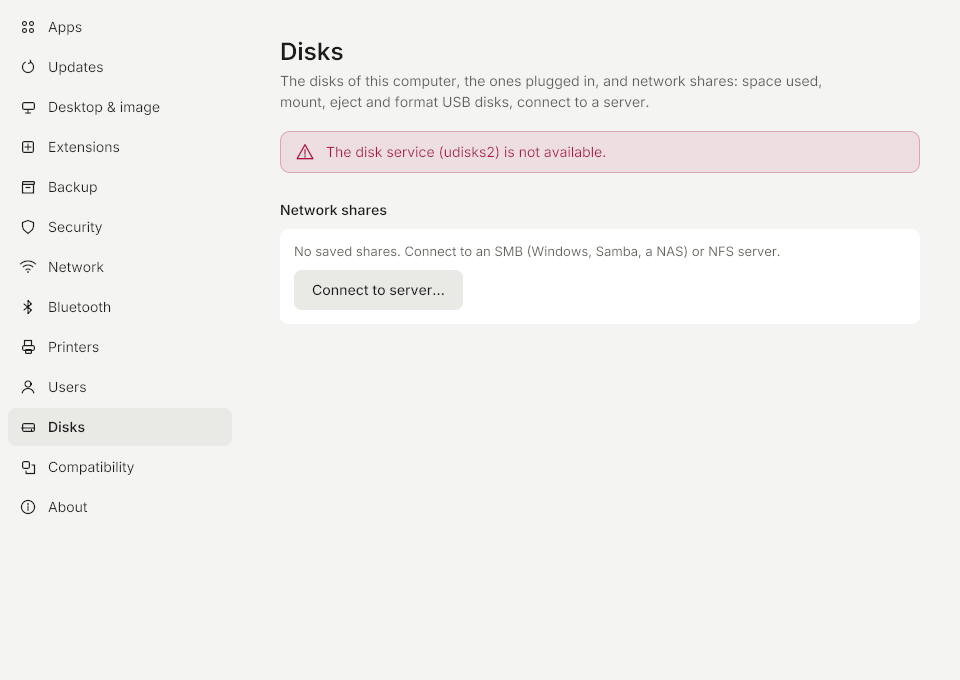
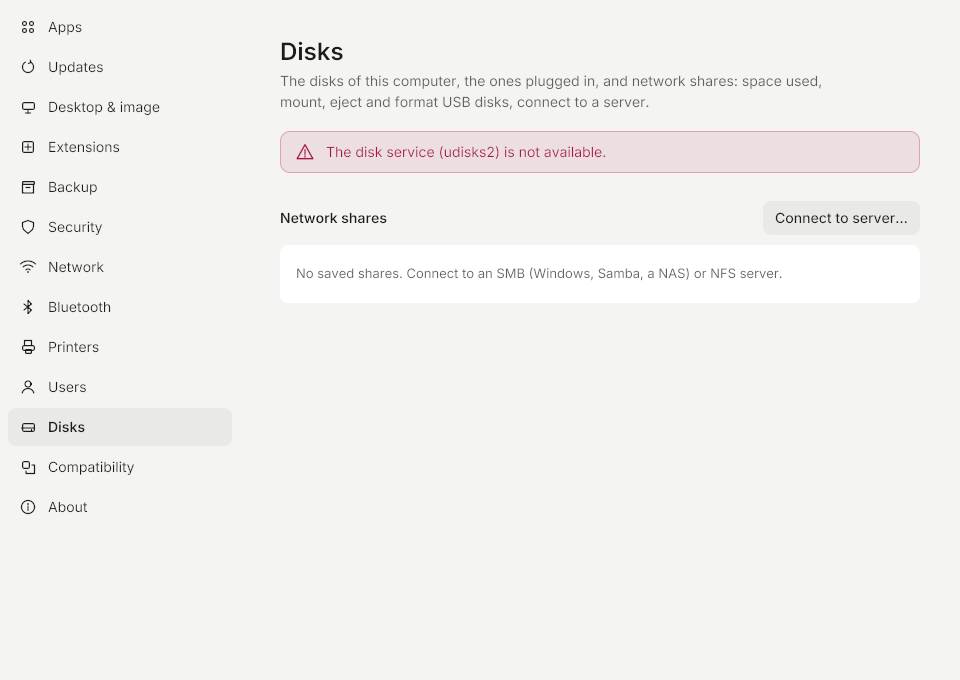
feat(system): settings rows on the Bluetooth and Disks pages
The adapter, the devices, each disk with its partitions and the network
shares are grouped rows with their buttons at the right; Forget and
Format are in the row's "⋯" menu, and "Connect to server…" moves
beside its heading.

Changed region(s): [[0.2812, 0.3088, 0.9375, 0.4632], [0.2812, 0.2779, 0.4062, 0.3397]]

diff --git a/cmd/isotope-system/page_bluetooth.go b/cmd/isotope-system/page_bluetooth.go
@@ -498,9 +498,7 @@ func (p *btPage) Body(gtx layout.Context) layout.Dimensions {
 			c.add(u.dim(i18n.T("This computer has no Bluetooth adapter, or it is switched off by a key or by rfkill.")))
 			return c.layout(gtx)
 		}
-		c.add(u.row(view.Headline, "", u.buttons(acts...)))
-		c.gap(6)
-		c.add(u.dim(i18n.T("Files sent to this computer are saved in Downloads.")))
+		c.add(u.group(u.actionRow("bt:adapter", view.Headline, i18n.T("Files sent to this computer are saved in Downloads."), nil, acts...)))
 		if busy {
 			c.gap(12)
 			c.add(u.spinnerLine(working))
@@ -512,44 +510,38 @@ func (p *btPage) Body(gtx layout.Context) layout.Dimensions {
 			}
 			return c.layout(gtx)
 		}
-		c.gap(24)
+		c.gap(28)
 		c.add(u.caps(i18n.T("Devices")))
 		c.gap(10)
-		c.add(u.panel(func(gtx layout.Context) layout.Dimensions {
-			var rows col
-			for i, r := range view.Rows {
-				if i > 0 {
-					rows.gap(14)
+		var rows []layout.Widget
+		for _, r := range view.Rows {
+			var as []guikit.Action
+			for _, a := range r.Actions {
+				k := guikit.ButtonSecondary
+				if a == "Forget" {
+					k = guikit.ButtonDanger
 				}
-				var as []guikit.Action
-				for _, a := range r.Actions {
-					k := guikit.ButtonSecondary
-					if a == "Forget" {
-						k = guikit.ButtonGhost
-					}
-					as = append(as, guikit.Action{Click: p.click(r.Dev.Path + "|" + a), Kind: k, Label: i18n.T(a), Disabled: busy})
-				}
-				sub := r.Sub
-				if sending.Dev == r.Dev.Path {
-					sub = btSendText(sending.Sent, sending.Total)
-					as = []guikit.Action{{Click: p.click("send|cancel"), Kind: guikit.ButtonSecondary, Label: i18n.T("Cancel")}}
-				}
-				rows.add(u.row(r.Dev.Name, sub, u.buttons(as...)))
-				if len(r.Codecs) > 0 {
-					rows.gap(8)
-					var cs []guikit.Action
-					for _, cd := range r.Codecs {
-						k := guikit.ButtonSecondary
-						if cd.Active {
-							k = guikit.ButtonPrimary
-						}
-						cs = append(cs, guikit.Action{Click: p.click(r.Dev.Path + "|codec|" + cd.Name), Kind: k, Label: cd.Label, Disabled: busy})
-					}
-					rows.add(u.row(i18n.T("Sound quality"), i18n.T("A higher quality uses more battery and needs a good signal."), u.buttons(cs...)))
-				}
+				as = append(as, guikit.Action{Click: p.click(r.Dev.Path + "|" + a), Kind: k, Label: i18n.T(a), Disabled: busy})
 			}
-			return rows.layout(gtx)
-		}))
+			sub := r.Sub
+			if sending.Dev == r.Dev.Path {
+				sub = btSendText(sending.Sent, sending.Total)
+				as = []guikit.Action{{Click: p.click("send|cancel"), Kind: guikit.ButtonSecondary, Label: i18n.T("Cancel")}}
+			}
+			rows = append(rows, u.actionRow("bt:"+r.Dev.Path, r.Dev.Name, sub, nil, as...))
+			if len(r.Codecs) > 0 {
+				var cs []guikit.Action
+				for _, cd := range r.Codecs {
+					k := guikit.ButtonSecondary
+					if cd.Active {
+						k = guikit.ButtonPrimary
+					}
+					cs = append(cs, guikit.Action{Click: p.click(r.Dev.Path + "|codec|" + cd.Name), Kind: k, Label: cd.Label, Disabled: busy})
+				}
+				rows = append(rows, u.row(i18n.T("Sound quality"), i18n.T("A higher quality uses more battery and needs a good signal."), u.rowButtons(cs...)))
+			}
+		}
+		c.add(u.group(rows...))
 		return c.layout(gtx)
 	})
 }

diff --git a/cmd/isotope-system/shares.go b/cmd/isotope-system/shares.go
@@ -355,46 +355,43 @@ func (p *disksPage) sharesSection() layout.Widget {
 	off := working != ""
 	return func(gtx layout.Context) layout.Dimensions {
 		var c col
-		c.add(u.caps(i18n.T("Network shares")))
+		var connect []guikit.Action
+		if u.hooks.Daemon != nil {
+			connect = append(connect, guikit.Action{Click: &p.connect, Kind: guikit.ButtonSecondary, Label: i18n.T("Connect to server…"), Disabled: off})
+		}
+		c.add(u.section(i18n.T("Network shares"), connect...))
 		c.gap(10)
 		if u.hooks.Daemon == nil {
 			c.add(u.errorBox(i18n.T("The update service (isotope-updated), which mounts network shares, is not available.")))
 			return c.layout(gtx)
 		}
-		c.add(u.panel(func(gtx layout.Context) layout.Dimensions {
-			var in col
-			switch {
-			case errText != "":
-				in.add(u.dim(errText))
-				in.gap(10)
-			case !loaded:
-				in.add(u.dim(i18n.T("Loading…")))
-				in.gap(10)
-			case len(rows) == 0:
-				in.add(u.dim(i18n.T("No saved shares. Connect to an SMB (Windows, Samba, a NAS) or NFS server.")))
-				in.gap(10)
+		if working != "" {
+			c.add(u.spinnerLine(working))
+			c.gap(10)
+		}
+		var in []layout.Widget
+		switch {
+		case errText != "":
+			in = append(in, u.note(errText))
+		case !loaded:
+			in = append(in, u.note(i18n.T("Loading…")))
+		case len(rows) == 0:
+			in = append(in, u.note(i18n.T("No saved shares. Connect to an SMB (Windows, Samba, a NAS) or NFS server.")))
+		}
+		for _, r := range rows {
+			k := p.shClicks(r.Key)
+			var as []guikit.Action
+			if r.MountPoint != "" {
+				as = append(as, guikit.Action{Click: &k.unmount, Kind: guikit.ButtonSecondary, Label: i18n.T("Unmount"), Disabled: off})
+			} else {
+				as = append(as, guikit.Action{Click: &k.mount, Kind: guikit.ButtonSecondary, Label: i18n.T("Mount"), Disabled: off})
 			}
-			if working != "" {
-				in.add(u.spinnerLine(working))
-				in.gap(10)
+			if r.Saved >= 0 {
+				as = append(as, guikit.Action{Click: &k.forget, Kind: guikit.ButtonDanger, Label: i18n.T("Forget"), Disabled: off})
 			}
-			for _, r := range rows {
-				k := p.shClicks(r.Key)
-				var as []guikit.Action
-				if r.MountPoint != "" {
-					as = append(as, guikit.Action{Click: &k.unmount, Kind: guikit.ButtonSecondary, Label: i18n.T("Unmount"), Disabled: off})
-				} else {
-					as = append(as, guikit.Action{Click: &k.mount, Kind: guikit.ButtonSecondary, Label: i18n.T("Mount"), Disabled: off})
-				}
-				if r.Saved >= 0 {
-					as = append(as, guikit.Action{Click: &k.forget, Kind: guikit.ButtonGhost, Label: i18n.T("Forget"), Disabled: off})
-				}
-				in.add(u.row(r.Title, r.Sub, u.buttons(as...)))
-				in.gap(10)
-			}
-			in.add(u.buttons(guikit.Action{Click: &p.connect, Kind: guikit.ButtonSecondary, Label: i18n.T("Connect to server…"), Disabled: off}))
-			return in.layout(gtx)
-		}))
+			in = append(in, u.actionRow("share:"+r.Key, r.Title, r.Sub, nil, as...))
+		}
+		c.add(u.group(in...))
 		return c.layout(gtx)
 	}
 }

diff --git a/cmd/isotope-system/page_disks.go b/cmd/isotope-system/page_disks.go
@@ -441,7 +441,7 @@ func (p *disksPage) driveActions(d Drive) []guikit.Action {
 		as = append(as, guikit.Action{Click: &k.powerOff, Kind: guikit.ButtonSecondary, Label: i18n.T("Power off")})
 	}
 	if p.u.sys.Admin {
-		as = append(as, guikit.Action{Click: &k.format, Kind: guikit.ButtonGhost, Label: i18n.T("Format…")})
+		as = append(as, guikit.Action{Click: &k.format, Kind: guikit.ButtonDanger, Label: i18n.T("Format…")})
 	}
 	return as
 }
@@ -554,28 +554,25 @@ func (p *disksPage) driveCard(d Drive) layout.Widget {
 	if p.changeable(d) {
 		note = p.formatNote()
 	}
-	return u.panel(func(gtx layout.Context) layout.Dimensions {
-		var c col
-		c.add(u.row(driveName(d), sub, func(gtx layout.Context) layout.Dimensions {
-			if reason == "" {
-				return layout.Dimensions{}
-			}
+	var extra layout.Widget
+	if reason != "" {
+		extra = func(gtx layout.Context) layout.Dimensions {
 			return u.Label(gtx, guikit.StSmall, u.Colors().Text2, reason)
-		}))
-		for _, b := range contents(d) {
-			c.gap(10)
-			c.add(p.blockRow(d, b))
 		}
-		if len(as) > 0 {
-			c.gap(12)
-			c.add(func(gtx layout.Context) layout.Dimensions { return wrapButtons(gtx, u, as) })
-		}
+	}
+	rows := []layout.Widget{u.actionRow("drive:"+d.ID, driveName(d), sub, extra, as...)}
+	for _, b := range contents(d) {
+		rows = append(rows, p.blockRow(d, b))
+	}
+	return func(gtx layout.Context) layout.Dimensions {
+		var c col
+		c.add(u.group(rows...))
 		if note != "" {
 			c.gap(8)
 			c.add(u.dim(note))
 		}
 		return c.layout(gtx)
-	})
+	}
 }
 
 func (p *disksPage) blockRow(d Drive, b Block) layout.Widget {
@@ -589,12 +586,7 @@ func (p *disksPage) blockRow(d Drive, b Block) layout.Widget {
 	}
 	as := p.blockActions(d, b)
 	return func(gtx layout.Context) layout.Dimensions {
-		return layout.Inset{Left: 14}.Layout(gtx, u.row(labelOf(b), sub, func(gtx layout.Context) layout.Dimensions {
-			if len(as) == 0 {
-				return layout.Dimensions{}
-			}
-			return u.buttons(as...)(gtx)
-		}))
+		return layout.Inset{Left: 16}.Layout(gtx, u.actionRow("block:"+b.ID, labelOf(b), sub, nil, as...))
 	}
 }
 

diff --git a/cmd/isotope-system/ui.go b/cmd/isotope-system/ui.go
@@ -674,6 +674,23 @@ func (u *UI) actionRow(key, title, sub string, extra layout.Widget, as ...guikit
 	}
 }
 
+// rowButtons is a row of row-sized buttons, for a row whose actions are
+// one choice (a codec) and must all show.
+func (u *UI) rowButtons(as ...guikit.Action) layout.Widget {
+	return func(gtx layout.Context) layout.Dimensions {
+		var kids []layout.FlexChild
+		for i, a := range as {
+			if i > 0 {
+				kids = append(kids, layout.Rigid(layout.Spacer{Width: 8}.Layout))
+			}
+			kids = append(kids, layout.Rigid(func(gtx layout.Context) layout.Dimensions {
+				return u.RowButton(gtx, a.Click, a.Kind, a.Label, !a.Disabled)
+			}))
+		}
+		return layout.Flex{Alignment: layout.Middle}.Layout(gtx, kids...)
+	}
+}
+
 // note is a row of a group that is a sentence in the dim colour: the
 // group's empty state.
 func (u *UI) note(txt string) layout.Widget { return u.dim(txt) }

diff --git a/cmd/isotope-system/page_users.go b/cmd/isotope-system/page_users.go
@@ -481,19 +481,3 @@ func (p *usersPage) userRow(x User) layout.Widget {
 	}
 	return u.actionRow("user:"+x.Name, title, sub, you, p.actionsOf(x)...)
 }
-
-// wrapButtons lays the buttons in a row, or one per line when they do not
-// fit the width.
-func wrapButtons(gtx layout.Context, u *UI, as []guikit.Action) layout.Dimensions {
-	if gtx.Constraints.Max.X < 520 && len(as) > 1 {
-		var c col
-		for i, a := range as {
-			if i > 0 {
-				c.gap(8)
-			}
-			c.add(u.buttons(a))
-		}
-		return c.layout(gtx)
-	}
-	return u.buttons(as...)(gtx)
-}
